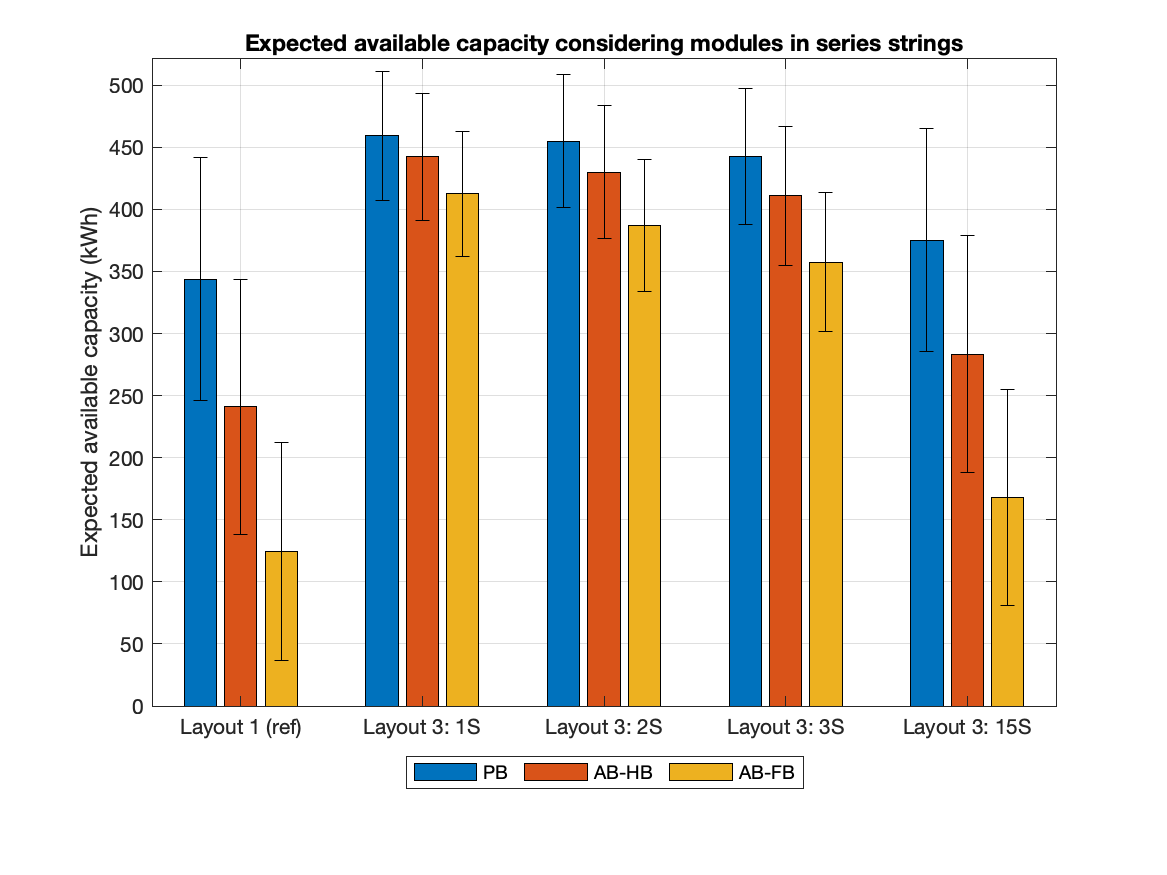
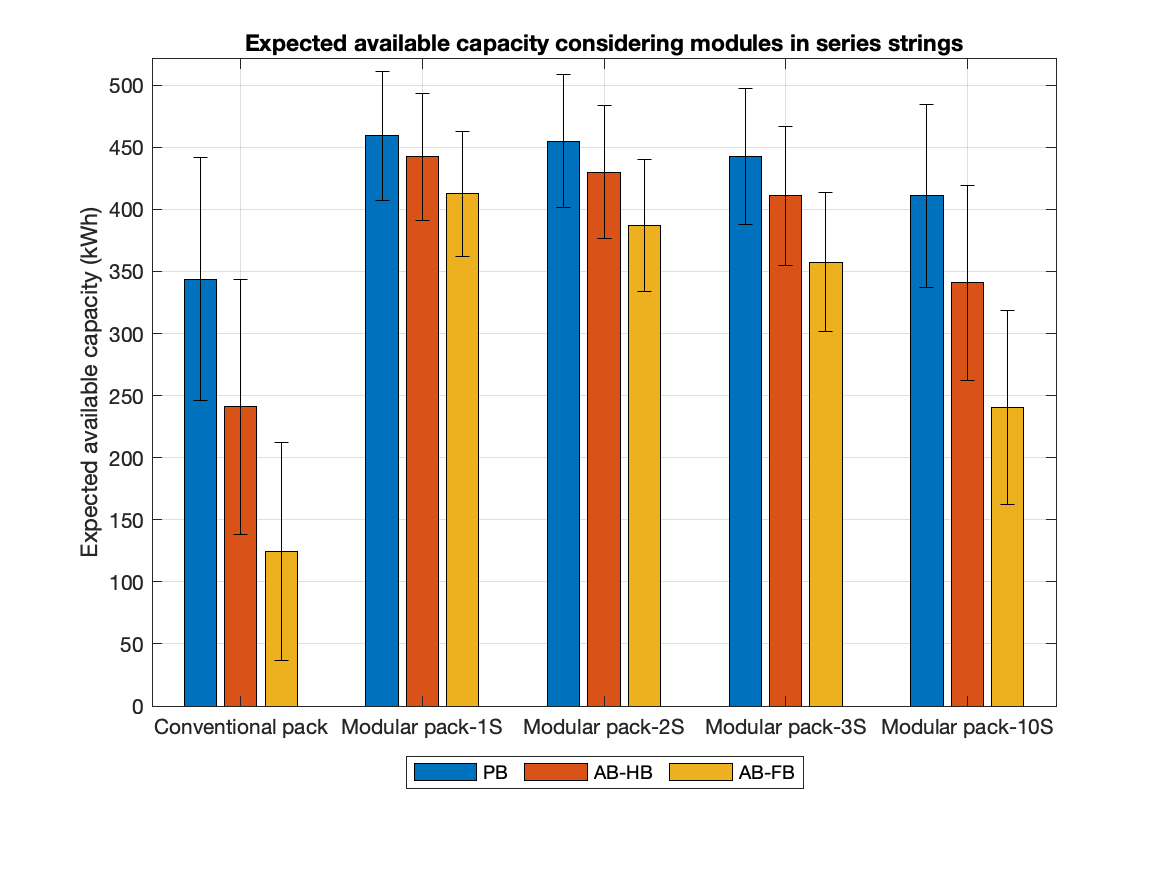
commented code

diff --git a/reliability_calcs.m b/reliability_calcs.m
@@ -17,6 +17,22 @@
 % All five system layouts are considered with passive balancing (PB) and active
 % balancing, both with converters based on half bridges (HB) and full
 % bridges (FB).
+%
+% As it's written now, this script produces 8 plots:
+%   1. Full PMFs for 5 layouts, passive balancing ('PBhistos.png')
+%   2. Full PMFs for 5 layouts, active balancing with half bridges ('HBhistos.png')
+%   3. Full PMFs for 5 layouts, active balancing with full bridges ('FBhistos.png')
+%   4. Summary bar chart for 5 layouts, all balancing types
+%       ('compare_all_bal.png')
+%   5. Summary bar chart for 5 layouts, 3 different cell chemistries
+%       (Passive balancing) ('compare_all_chem_PB.png')
+%   6. Summary bar chart for 5 layouts, 3 different cell chemistries
+%       (Active balancing - half bridges) ('compare_all_chem_HB.png')
+%   7. Summary bar chart for 5 layouts, 3 different cell chemistries
+%       (Active balancing - full bridges) ('compare_all_chem_FB.png')
+%   8. Summary bar chart for 5 layouts: Conventional pack (layout 1), and
+%       variations on modular pack (layout 4) considering different numbers of
+%       modules in series (all balancing types) ('compare_all_modules_series.png')
 % ----------------------------------------------------------------------
 
 close all
@@ -27,7 +43,7 @@ clear
 % that module Ah are limited to AhBal and cell voltage is vCell, develop
 % battery pack layouts using get_conventional_layout and get_modular_layout
 % for the two battery pack types.
-% Note: the module is The same for both battery pack types.
+% Note: the module is the same for both battery pack types.
 
 kWhModule_desired = 3.5;
 vModule_desired = 50;
@@ -39,14 +55,14 @@ AhBal = 100;
 [nBlockSer, kWhModule, nModSer_conv, nModPar_conv, kWhPack_conv] = get_conventional_layout(vCell, ...
     AhBal, kWhModule_desired, kWhPack_desired, vModule_desired, vPack_desired_AC);
 
-nModSer_mod1 = 1; % A variable that can be explored for the modular battery is the number of modules in series with each converter
+nModSer_mod1 = 1; % A variable that can be explored for the modular battery pack is the number of modules in series with each converter
 [nModPar_mod1, kWhPack_mod1] = get_modular_layout(kWhModule, nModSer_mod1, kWhPack_desired);
 
 % Read component failure rates from Excel file, save as struct
 L = readcell('failure_rates_computed.xlsx', 'Sheet', 'Value summary');
 L = cell2struct(L(:,2), L(:,1), 1);
 
-scale = 1e6;
+scale = 1e6; % Failure rates are computed as failures/10^6 hours, must scale to get failures/hr
 opHrs = 5*8000; % Based on 1C discharge, C/4 charge, 8000 cycles in lifetime
 D = 0.5; % overall system duty cycle
 calHrs = opHrs/D; 
@@ -66,7 +82,7 @@ lambdaDC_bal = nCapDC*L.lambdaC_bal + nDiodeDC*L.lambdaDiode_bal + nMosfetDC*L.l
 lambdaDC_half_bridge = nCapDC*L.lambdaC_bal + nDiodeDC/2*L.lambdaDiode_bal + nMosfetDC/2*L.lambdaMosfet_bal + ...
     nInductorDC*L.lambdaL_bal + nXfmrDC*L.lambdaXfmr_RF_bal;
 
-Rcon = exp(-lambdaDC/scale*calHrs); % reliability estimate for DC-DC onverter at time 'lifetime'
+Rcon = exp(-lambdaDC/scale*calHrs); % reliability estimate for DC-DC onverter at time 'calHrs'
 Rab_hb = exp(-lambdaDC_half_bridge/scale*calHrs);
 Rab_fb = exp(-lambdaDC_bal/scale*calHrs);
 
@@ -115,6 +131,7 @@ P_PB = {P1_PB; P2_PB; P3_PB; P4_PB; P5_PB};
 
 [mus_PB, sigmas_PB] = get_dist_params(X_PB, P_PB);
 
+% Plot #1 ('PBhistos.png')
 f1 = make_5_bar_chart(X_PB, P_PB, mus_PB, 1);
 
 %% Explore same 5 layouts with active balancing, half bridge circuits
@@ -138,6 +155,7 @@ P_HB = {P1_HB; P2_HB; P3_HB; P4_HB; P5_HB};
 
 [mus_HB, sigmas_HB] = get_dist_params(X_HB, P_HB);
 
+% Plot #2 ('HBhistos.png')
 f2 = make_5_bar_chart(X_HB, P_HB, mus_HB, 2);
 
 %% Explore same 5 layouts with active balancing, full bridge circuits
@@ -161,12 +179,14 @@ P_FB = {P1_FB; P2_FB; P3_FB; P4_FB; P5_FB};
 
 [mus_FB, sigmas_FB] = get_dist_params(X_FB, P_FB);
 
+% Plot #3 ('FBhistos.png')
 f3 = make_5_bar_chart(X_FB, P_FB, mus_FB, 3);
 
 %% Compare all cases (5 layouts, 3 balancing types) in a plot with mean and std dev of PMFs
 mus = [mus_PB, mus_HB, mus_FB];
 sigmas = [sigmas_PB, sigmas_HB, sigmas_FB]; 
 
+% Plot #4 ('compare_all_bal.png')
 f4 = make_summary_plot(mus, sigmas, 1,1);
 
 %% Explore impact of cell chemistry
@@ -202,6 +222,7 @@ for i = 1:3
     [mus_cc(:,i,j), sigmas_cc(:,i,j)] = get_dist_params(X_cc(:,i,j), P_cc(:,i,j));
 end
 
+% Plots #5-7 ('compare_all_chem_xB.png')
  make_summary_plot(mus_cc(:,:,j), sigmas_cc(:,:,j), 2, j);
 end
 
@@ -232,8 +253,8 @@ for n = 1:4
      [mus_ms(n, :), sigmas_ms(n,:)] = get_dist_params(X_ms(n,:), P_ms(n,:));
 end
 
-i = 15;
-n=5
+i = 10;
+n = 5;
 [nModPar_mod, kWhPack_mod] = get_modular_layout(kWhModule, i, kWhPack_desired);
      for b = 1:3
           Rbal = bal(b);
@@ -242,5 +263,6 @@ n=5
      end
 [mus_ms(n, :), sigmas_ms(n,:)] = get_dist_params(X_ms(n,:), P_ms(n,:));
 
+% Plot #8 ('compare_all_modules_series.png')
 make_summary_plot(mus_ms, sigmas_ms, 3, 1);
 

diff --git a/make_summary_plot.m b/make_summary_plot.m
@@ -1,7 +1,8 @@
 function f = make_summary_plot(mus, sigmas, type, balType)
 % Summarize 5 layouts with 3 variations each based on their mean and std
 % devs. Type indicates what we're comparing: 1 = balancing type, 2 = cell
-% chemistry.
+% chemistry, 3 = modules in series. This just updates the plot legend and
+% title
 f = figure;
 b = bar(mus);
 grid on
@@ -38,7 +39,7 @@ switch type
                  saveas(f, 'compare_all_chem_FB.png')
         end
     case 3 
-        set(gca, 'xticklabel', {'Layout 1 (ref)'; 'Layout 3: 1S'; 'Layout 3: 2S'; 'Layout 3: 3S'; 'Layout 3: 15S'})
+        set(gca, 'xticklabel', {'Conventional pack'; 'Modular pack-1S'; 'Modular pack-2S'; 'Modular pack-3S'; 'Modular pack-10S'})
         title('Expected available capacity considering modules in series strings')
         legend('PB', 'AB-HB', 'AB-FB', 'Location', 'southoutside', 'orientation', 'horizontal')
         saveas(f, 'compare_all_modules_series.png')

diff --git a/n_same_system_parallel.m b/n_same_system_parallel.m
@@ -1,5 +1,7 @@
 function [X, P] = n_same_system_parallel(n, x, p)
-% the limit for n here is about 20 or it freaks out
+% This function takes in a probability distribution [x, p] for a PE unit
+% and returns the resultant distribution [X, P] for n of those PE units
+% connected in parallel.
 X = zeros(n,size(x,2));
 P = zeros(size(X));
 
@@ -16,18 +18,11 @@ for i = 1:n-1
         tempX = combvec(tempX, X(i+1,:));
         tempP = combvec(tempP, P(i+1,:));
     end
-%     i
-%     size(tempX)
-%     if i <6
-%         tempX
-%     end
+
     tempX = sum(tempX, 1);
     tempP = prod(tempP, 1);
     [tempX, tempP] = combine_like_terms(tempX,tempP);
-%     size(tempX)
-%     if i < 6 
-%         tempX
-%     end
+
 end
 X = tempX;
 P = tempP;

diff --git a/get_ess2_sys_dist.m b/get_ess2_sys_dist.m
@@ -1,7 +1,7 @@
 function [X, P] = get_ess2_sys_dist(kWhModule, kWhPack, nBlockSer, ...
     nModSer, nModPar, Rbal, Rinv, Rcon)
 % The purpose of this function is to compute and return the distribution X,
-% P for AC layout #2: conventional pack, DC-DC converter, inverter. Note
+% P for Layout #2: conventional pack, DC-DC converter, inverter. Note
 % that the only difference between this layout and layout #1 is we have a
 % DC-DC converter here instead of a transformer
 

diff --git a/diff_systems_parallel.m b/diff_systems_parallel.m
@@ -1,6 +1,11 @@
 function [X, P] = diff_systems_parallel(X1, P1, X2, P2)
+% Takes in two distributions [X1, P1] and [X2, P2] representing two
+% different PE units or subsystems, returns the distribution that results
+% from connecting them in parallel. I don't think this function is actually
+% used yet but could be useful in the future.
 
 X = sum(combvec(X1,X2),1);
 P = prod(combvec(P1,P2),1);
 [X, P] = combine_like_terms(X,P);
+
 end

diff --git a/make_5_bar_chart.m b/make_5_bar_chart.m
@@ -1,4 +1,8 @@
 function f = make_5_bar_chart(X, P, mus, bal_type)
+% This function takes in cell arrays X and P, containing the values for 5
+% system distributions corresponding to the 5 layouts and plots them for a
+% given balancing type. bal_type = 1 --> passive balancing, 2 --> active
+% balancing with half bridges, 3 --> active balancing with full bridges
 
 X1 = X{1}; P1 = P{1};
 X2 = X{2}; P2 = P{2};

diff --git a/get_ess4_sys_dist.m b/get_ess4_sys_dist.m
@@ -1,7 +1,7 @@
 function [X, P] = get_ess4_sys_dist(kWhModule, kWhPack, nBlockSer, ...
     nModSer, nModPar, Rbal, Rcon, Rinv)
-% The purpose of this function is to return the distribution X,P for the AC
-% #3 layout: DC pack + inverter
+% The purpose of this function is to return the distribution X,P for ESS 
+% layout #3: modular pack + inverter
 
 Pbal = [1-Rbal Rbal];
 Xbal = nModSer * [0 kWhModule];

diff --git a/get_ess5_sys_dist.m b/get_ess5_sys_dist.m
@@ -1,7 +1,7 @@
 function [X, P] = get_ess5_sys_dist(kWhModule, kWhPack, nBlockSer, ...
     nModSer, nModPar, Rbal, Rcon)
-% The purpose of this function is to return the distribution X,P for the DC
-% layout: DC pack, no inverter
+% The purpose of this function is to return the distribution X,P for ESS 
+% layout #5: modular pack, no inverter
 
 Pbal = [1-Rbal Rbal];
 Xbal = nModSer * [0 kWhModule];

diff --git a/get_ess1_sys_dist.m b/get_ess1_sys_dist.m
@@ -1,7 +1,7 @@
 function [X, P] = get_ess1_sys_dist(kWhModule, kWhPack, nBlockSer, ...
     nModSer, nModPar, Rbal, Rinv, Rxfmr)
 % The purpose of this function is to compute and return the distribution X,
-% P for AC layout #1: conventional pack, inverter, power (LF) xfmr
+% P for Layout #1: conventional pack, inverter, power (LF) xfmr
 
 Pbal = [1-Rbal Rbal];
 Xbal = nModSer * [0 kWhModule];

diff --git a/diff_systems_series.m b/diff_systems_series.m
@@ -1,5 +1,7 @@
 function [X, P] = diff_systems_series(X1, P1, X2, P2)
-
+% Takes in two distributions [X1, P1] and [X2, P2] representing two
+% different PE units or subsystems, returns the distribution that results
+% from connecting them in series.
     X = min(combvec(X1,X2),[],1);
     P = prod(combvec(P1,P2),1);
     [X, P] = combine_like_terms(X,P);

diff --git a/get_dist_params.m b/get_dist_params.m
@@ -1,5 +1,7 @@
 function [mus, sigmas] = get_dist_params(X, P)
-
+% Takes in a distribution [X,P], or cell arrays containing multiple
+% distributions, and returns the means (mus) and standard deviations
+% (sigmas) of each distribution
 if iscell(X)
     mus = zeros(size(X));
     sigmas = zeros(size(X));

diff --git a/n_same_system_series.m b/n_same_system_series.m
@@ -1,4 +1,7 @@
 function [X, P] = n_same_system_series(n, x1, p1)
+% This function takes in a probability distribution [x, p] for a PE unit
+% and returns the resultant distribution [X, P] for n of those PE units
+% connected in series.
 
 if n==1
     X = x1;
